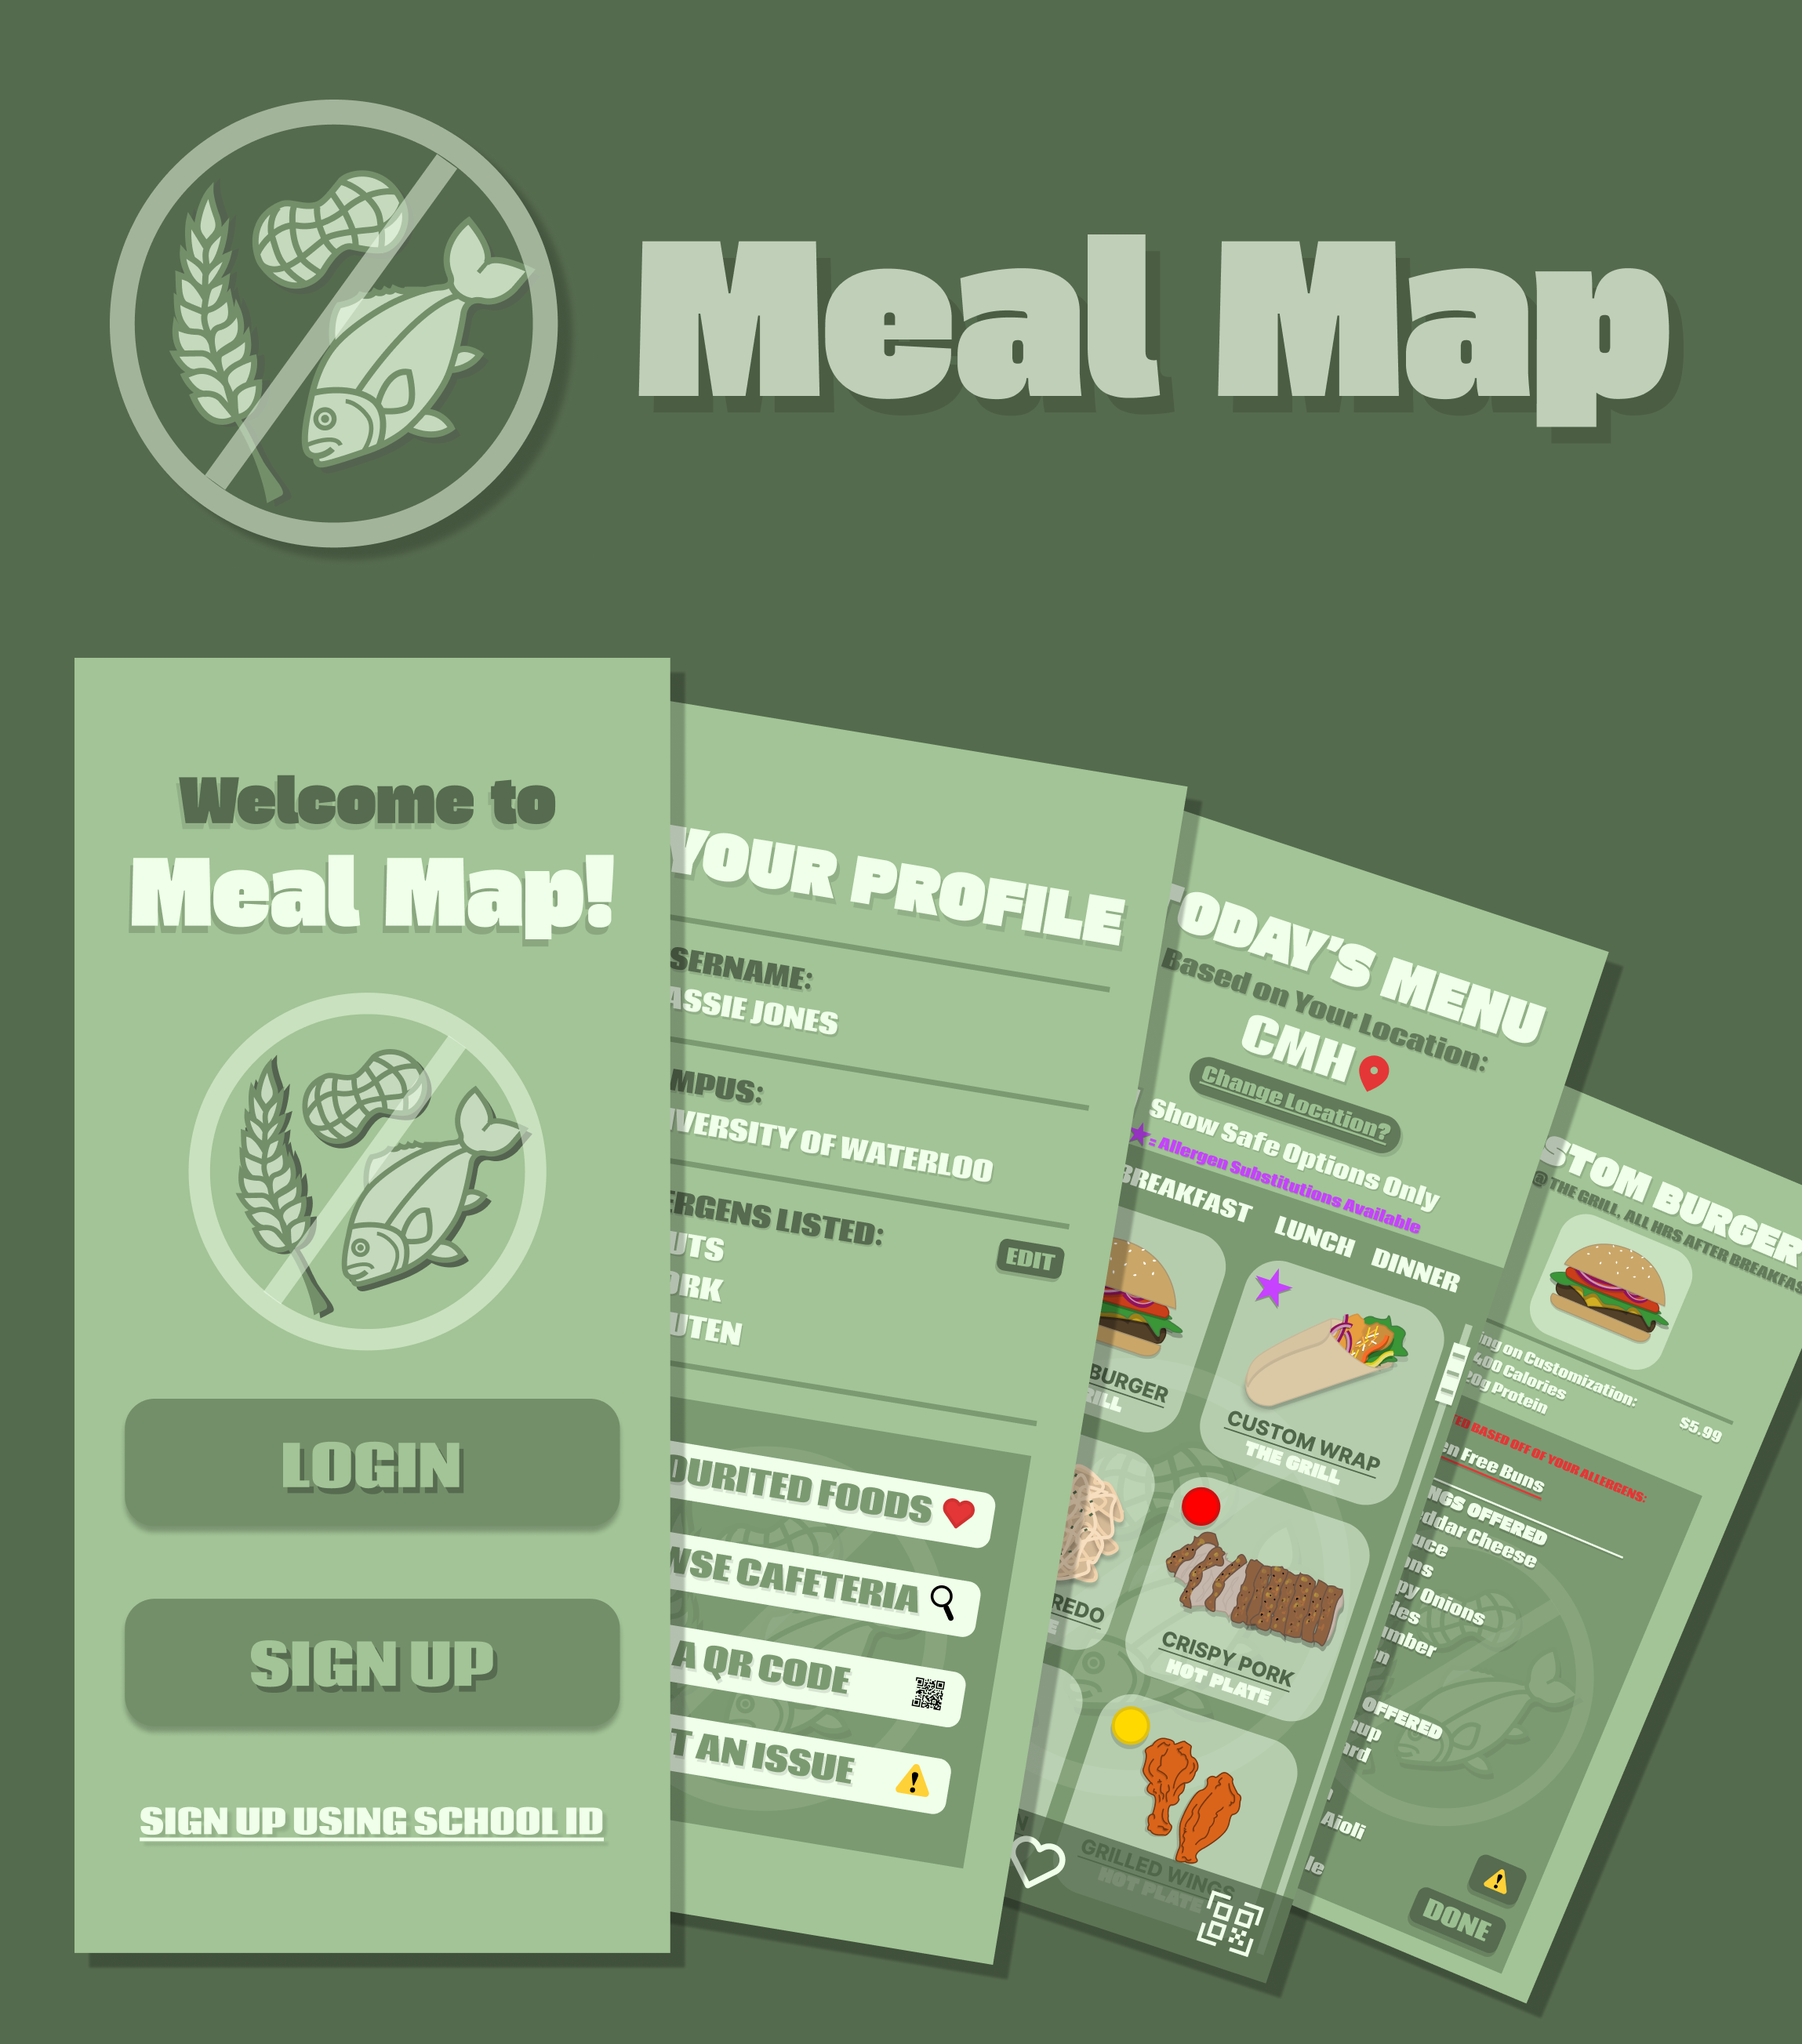
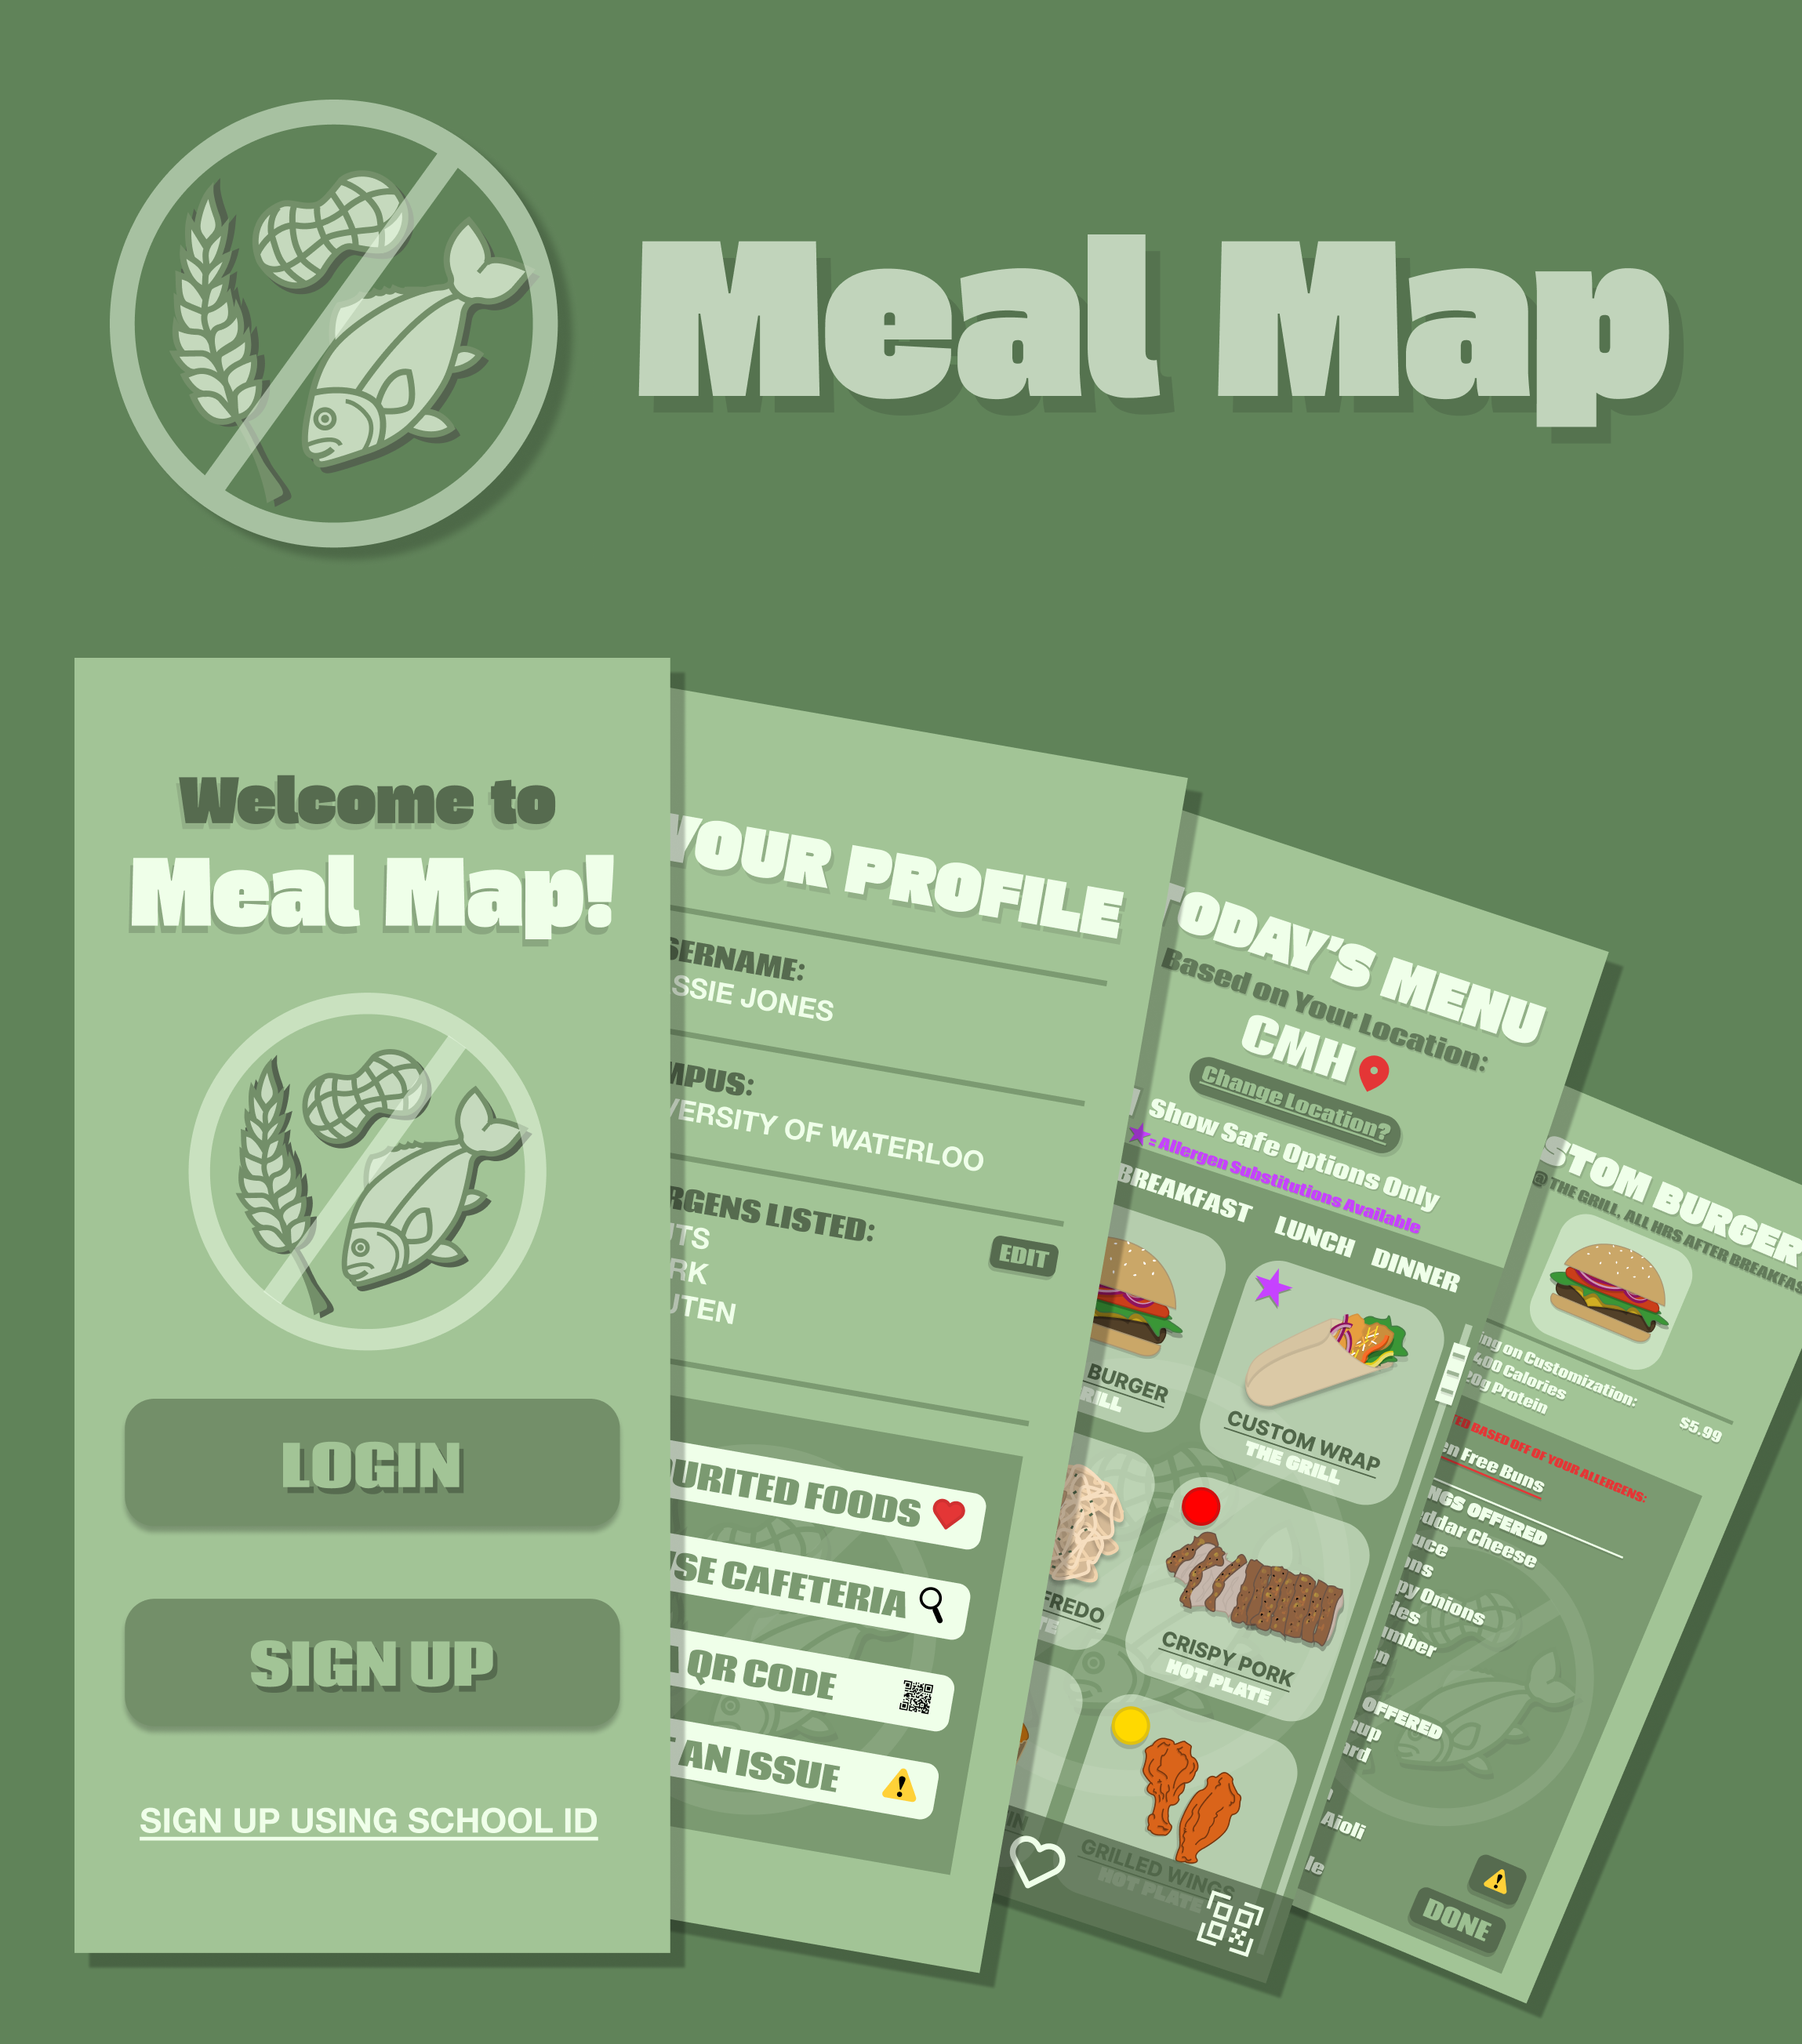
Meal Map styling updates, mmlogo, updated images, tools/timeline sections

diff --git a/index.html b/index.html
@@ -2269,7 +2269,7 @@
       .mm-pill-3 { color: #D9E8D3; border: 2px solid #D9E8D3; }
       .mm-label {
         font-family: 'Manrope', sans-serif; font-size: 0.68rem;
-        font-weight: 500; color: rgba(255,255,255,0.3);
+        font-weight: 700; color: rgba(255,255,255,0.3);
         text-transform: uppercase; letter-spacing: 3px; margin-bottom: 16px;
       }
       .mm-section {
@@ -2299,6 +2299,9 @@
         font-family: 'Helvetica Neue', Helvetica, Arial, sans-serif; font-size: 1rem; font-weight: 500;
         color: rgba(255,255,255,0.55); line-height: 1.7;
       }
+      .mm-feature-card .mm-feature-desc {
+        color: white;
+      }
       .mm-feature-img-wrap {
         border-radius: 12px;
       }
@@ -2310,7 +2313,7 @@
         transform: scale(1.18);
       }
       .mm-feature-card {
-        background: rgba(176,201,167,0.1); border: 1px solid rgba(176,201,167,0.25);
+        background: #608359; border: 1px solid rgba(176,201,167,0.25);
         border-radius: 16px; padding: 28px 24px;
       }
       .mm-footer {
@@ -2331,7 +2334,7 @@
     <!-- hero -->
     <div class="mm-hero">
       <div>
-        <h1>Meal<br><span>Map</span></h1>
+        <h1><span style="color:#566B4F;">Meal</span><br><span>Map</span></h1>
         <p class="mm-tagline" style="padding-bottom:20px; border-bottom:1px solid rgba(255,255,255,0.1);">A prototype app helping students navigate university cafeterias safely — providing a standardized, reliable system for allergy communication, management, and education.</p>
         <div style="display:flex; gap:32px; margin-top:20px; margin-bottom:20px;">
           <div>
@@ -2461,9 +2464,16 @@
 
     <!-- role and impact -->
     <div class="mm-section mm-pg">
-      <p class="mm-label">Contribution</p>
-      <h2>Role And <span>Impact</span></h2>
-      <p style="font-family:'Helvetica Neue',Helvetica,Arial,sans-serif; font-size:1rem; font-weight:700; color:rgba(255,255,255,0.65); line-height:1.85; max-width:700px;">As part of a collaborative team, I contributed to both the UX design and the visual direction of Meal Map. I helped shape the allergy filtering system — working through the logic of how profiles would interact with live menu data — and took the lead on prototyping the core screens in Figma. I also developed the app's colour palette and visual identity, ensuring the interface felt calm, trustworthy, and easy to use for students managing dietary restrictions every day.</p>
+      <div style="display:grid; grid-template-columns:1fr auto; gap:48px; align-items:center;">
+        <div>
+          <p class="mm-label">Contribution</p>
+          <h2>Role And <span>Impact</span></h2>
+          <p style="font-family:'Helvetica Neue',Helvetica,Arial,sans-serif; font-size:1rem; font-weight:700; color:rgba(255,255,255,0.65); line-height:1.85;">As part of a collaborative team, I contributed to both the UX design and the visual direction of Meal Map. I helped shape the allergy filtering system — working through the logic of how profiles would interact with live menu data — and took the lead on prototyping the core screens in Figma. I also developed the app's colour palette and visual identity, ensuring the interface felt calm, trustworthy, and easy to use for students managing dietary restrictions every day.</p>
+        </div>
+        <div style="flex-shrink:0;">
+          <img src="images/mmlogo.png" alt="Meal Map Logo" style="width:320px; object-fit:contain; display:block; border-radius:16px;" />
+        </div>
+      </div>
     </div>
 
     <div class="mm-footer">
